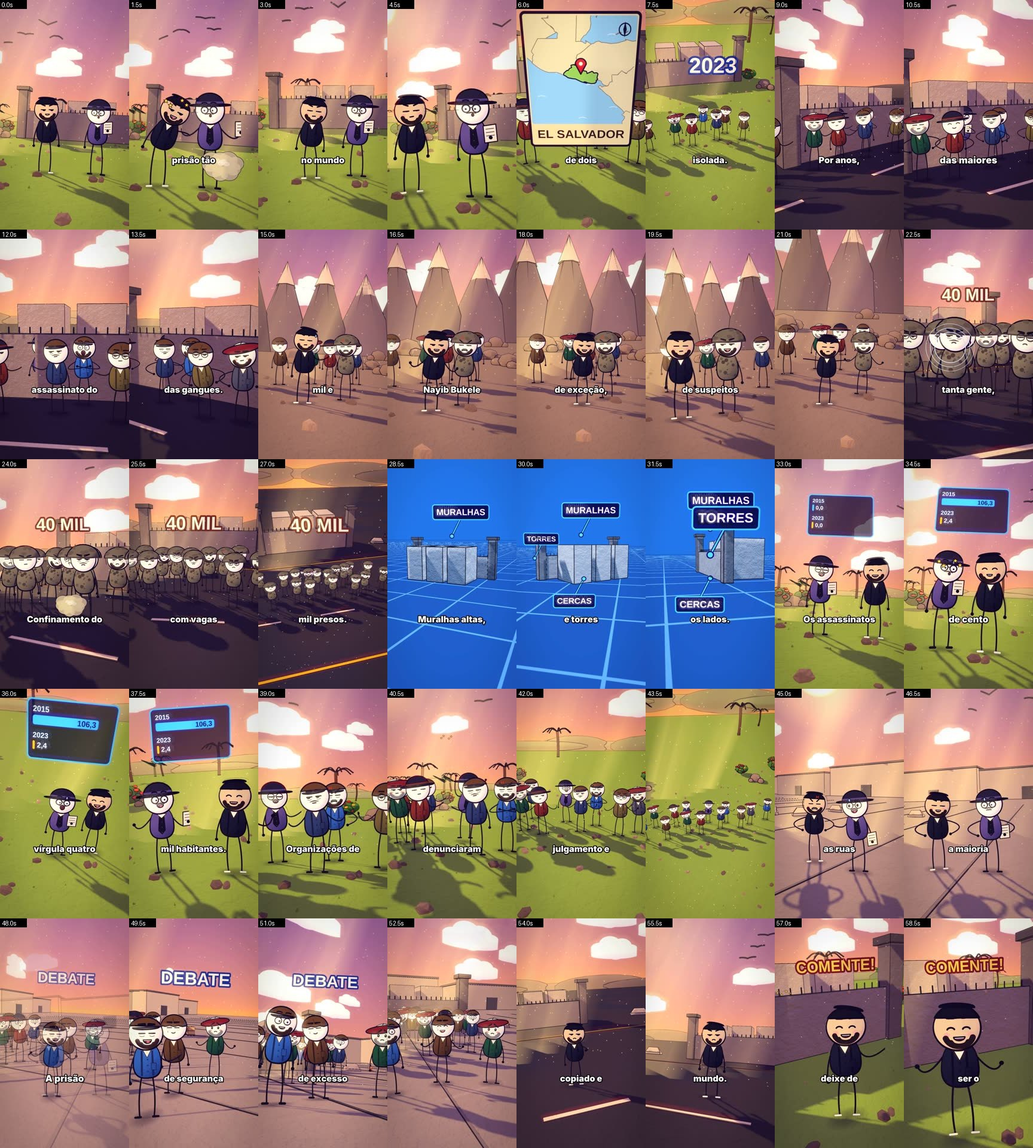
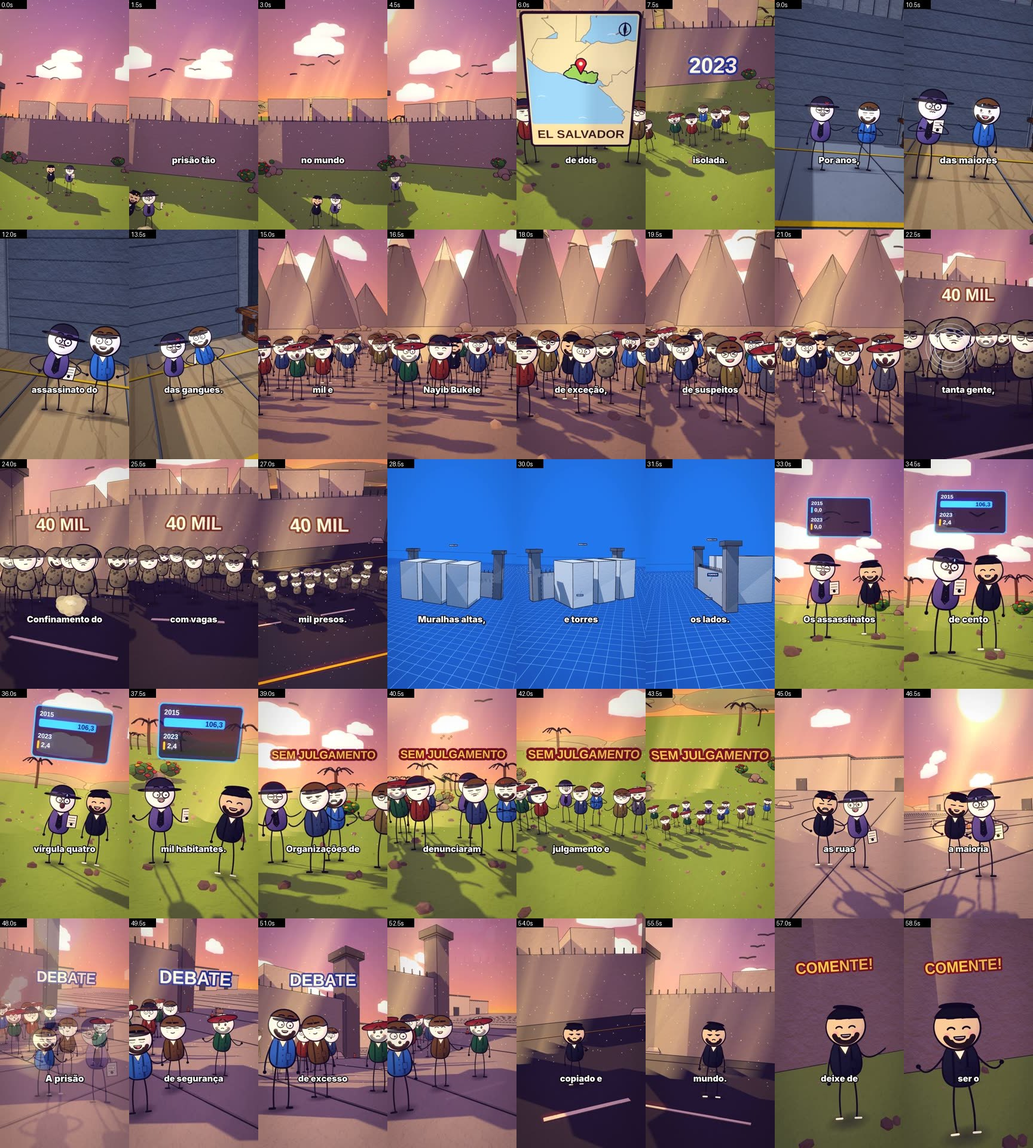
ckpt antes do sync automatico da ferramenta

diff --git a/ferramenta-shorts/web/story.js b/ferramenta-shorts/web/story.js
@@ -50,6 +50,7 @@ const SPEC = {
 };
 
 // FOLHA3 b5467cce7ec9 30 acoes=29 faltando=0
+SPEC.fit = {"b0":1.404,"b0~1":1.404,"b0~2":1.972,"b4":1.254,"b4_1":1.12,"b6~2":1.12,"b7":1.254,"b7_1":1.12};
 // ===== STORY RUNTIME (generic): turns a declarative SPEC (stories/<id>.spec.js, concatenated before this file) into the story.js interface the engine expects =====
 import { camFromKeys, clamp, lerp, ramp, q, blinkAt, idle, M } from './motion.js';
 export const FPS = 30, TOTAL = SPEC.total, DECK = 6;

diff --git a/entregas/cecot2023/folha2_producao.md b/entregas/cecot2023/folha2_producao.md
@@ -23,21 +23,21 @@ Coordenadas de cada cena para modelagem, animacao e camera, com os RISCOS que o 
 - RISCOS: nenhum
 
 ## Cena b2 - Por anos, El Salvador teve uma das maiores taxas de assassinato do mun...
-- Cenario: loc_pista | luz: golden | clima: limpo
-- Camera: orbit = ABERTO: camera girando em volta da acao (tomada continua)
-- Takes: 1 tomada continua, sem corte (camera abre/gira devagar)
-- Personagens principais (2): REP (variante 0, expressao worried, segura paper); POV (variante 0, expressao scared) | multidao: 10 de POV
-- Animacao: discutir
-- Objetos/modelos: kit/prison
+- Cenario: interior galpao | luz: golden | clima: limpo
+- Camera: two = plano medio nos dois; camera empurra devagar e muda de angulo a cada ~2 s
+- Takes: 3 take(s) de ~1,8 s, deslizando de um para o outro: direita baixa -> frente -> 3/4 pela direita, mais perto e mais baixo
+- Personagens principais (2): REP (variante 0, expressao worried, segura paper); POV (variante 0, expressao scared)
+- Animacao: discutir | interacao: discutir
+- Objetos/modelos: -
 - CONFERIR NA FOLHA DE CONTATO (o que a narracao cita tem que aparecer): assassinato, gangues, maiores
 - RISCOS: nenhum
 
 ## Cena b3 - Em dois mil e vinte e dois, o presidente Nayib Bukele decretou estado ...
 - Cenario: loc_montanha | luz: golden | clima: limpo
-- Camera: group = plano de grupo (corpo inteiro); angulo muda a cada ~2 s
-- Takes: 4 take(s) de ~1,8 s, deslizando de um para o outro: direita baixa -> frente -> 3/4 pela direita, mais perto e mais baixo -> 3/4 pela esquerda, mais alto e aberto
-- Personagens principais (2): BUK (variante 0, expressao stern); GUA (variante 0, expressao stern) | multidao: 5 de POV
-- Animacao: conversar | interacao: entregar
+- Camera: orbit = ABERTO: camera girando em volta da acao (tomada continua)
+- Takes: 1 tomada continua, sem corte (camera abre/gira devagar)
+- Personagens principais (2): BUK (variante 0, expressao stern); GUA (variante 0, expressao stern) | multidao: 30 de POV
+- Animacao: encena
 - Objetos/modelos: -
 - CONFERIR NA FOLHA DE CONTATO (o que a narracao cita tem que aparecer): excecao, presidente, suspeitos
 - RISCOS: nenhum
@@ -87,7 +87,7 @@ Coordenadas de cada cena para modelagem, animacao e camera, com os RISCOS que o 
 - Camera: group = plano de grupo (corpo inteiro); angulo muda a cada ~2 s
 - Takes: 2 take(s) de ~1,8 s, deslizando de um para o outro: direita baixa -> frente
 - Personagens principais (2): BUK (variante 0, expressao stern); REP (variante 0, expressao nervous, segura paper)
-- Animacao: discutir | interacao: discutir
+- Animacao: discutir | interacao: vai ate o outro
 - Objetos/modelos: -
 - CONFERIR NA FOLHA DE CONTATO (o que a narracao cita tem que aparecer): governo, maioria, ruas
 - RISCOS: nenhum
@@ -127,12 +127,12 @@ Regra: todo objeto, utensilio, veiculo e animal que aparece e' modelo 3D feito n
 
 Objeto | Cenas | Situacao | O que fazer
 ---|---|---|---
-kit/prison | b0, b1, b2, b4, b9, b10 | pronto (HEROI: aparece em close) | conferir na folha de contato se le bem; se parecer caixote, refazer com formas.py
+kit/prison | b0, b1, b4, b9, b10 | pronto (HEROI: aparece em close) | conferir na folha de contato se le bem; se parecer caixote, refazer com formas.py
 
 
 ## Video inteiro
-- Objeto heroi: kit/prison | grandes momentos: b4, b7 | planos abertos: 4 | mistura: close 11% | medio 68% | aberto 21% | detalhe 0%
-- Interacoes: b0 aproxima-se, b3 entregar, b6 avanca e o outro recua, b8 discutir, b9 o outro se aproxima
+- Objeto heroi: kit/prison | grandes momentos: b4, b7 | planos abertos: 4 | mistura: close 11% | medio 66% | aberto 23% | detalhe 0%
+- Interacoes: b0 aproxima-se, b2 discutir, b6 avanca e o outro recua, b8 vai ate o outro, b9 o outro se aproxima
 - RISCOS GERAIS: nenhum
 
 ## RESUMO: 0 risco(s) em aberto - pode renderizar

diff --git a/ferramenta-shorts/stories/cecot2023/cronograma.md b/ferramenta-shorts/stories/cecot2023/cronograma.md
@@ -30,13 +30,13 @@ N | Etapa | O que confere | Estado | Proximo passo
 5 | Voz | narracao neural gerada e tempos por palavra | FEITO | 
 6 | Estilo e enquadramento | autoajuste de luz/cor e ajuste de camera de cada tomada | FEITO | 
 7 | Gates | camera OK, todas as tomadas OK, estilo OK | FEITO | 
-8 | Storyboard e grade de acoes | video inteiro em quadros + 1 quadro no instante de cada acao | PENDENTE | 
-9 | Revisao escrita e aprovacao | uma linha por frase conferindo com a folha 3 e com o quadro da pesquisa | BLOQUEADO (etapa anterior pendente) | ./aprovar_storyboard.sh cecot2023
+8 | Storyboard e grade de acoes | video inteiro em quadros + 1 quadro no instante de cada acao | FEITO | 
+9 | Revisao escrita e aprovacao | uma linha por frase conferindo com a folha 3 e com o quadro da pesquisa | PENDENTE | ./aprovar_storyboard.sh cecot2023
 10 | Render | todos os quadros renderizados nesta versao das folhas | BLOQUEADO (etapa anterior pendente) | 
 11 | Montagem e som | trechos + voz + musica + efeitos; volume normalizado | BLOQUEADO (etapa anterior pendente) | 
 12 | Conferencia | conferir.sh sem falha e folha de contato olhada | BLOQUEADO (etapa anterior pendente) | ./conferir.sh cecot2023
 13 | Auditoria das acoes | 1 quadro do mp4 em cada palavra de acao | REFAZER (a etapa anterior mudou) | bash auditar_acoes.sh local cecot2023 <mp4>
 14 | Entrega | mp4 original 1080x1920 enviado; commit e push | BLOQUEADO (etapa anterior pendente) | 
 
-**Etapa atual:** 8. Storyboard e grade de acoes
+**Etapa atual:** 9. Revisao escrita e aprovacao
 

diff --git a/entregas/cecot2023/folha1_roteiro.md b/entregas/cecot2023/folha1_roteiro.md
@@ -71,7 +71,7 @@ Voz: pt-BR-AntonioNeural +10% | Clima do video: playful | Cenario base: loc_camp
 - Efeitos sonoros marcados: sting@30
 - Efeito + som nas palavras-chave: encena: protesto (up) @4 -> acao + som de efeito
 - Efeito visual marcado: ring@30
-- Texto na tela: -
+- Texto na tela: SEM JULGAMENTO
 - Funcao na historia: GRANDE MOMENTO
 
 ## Cena b8  (~4.5 s)
